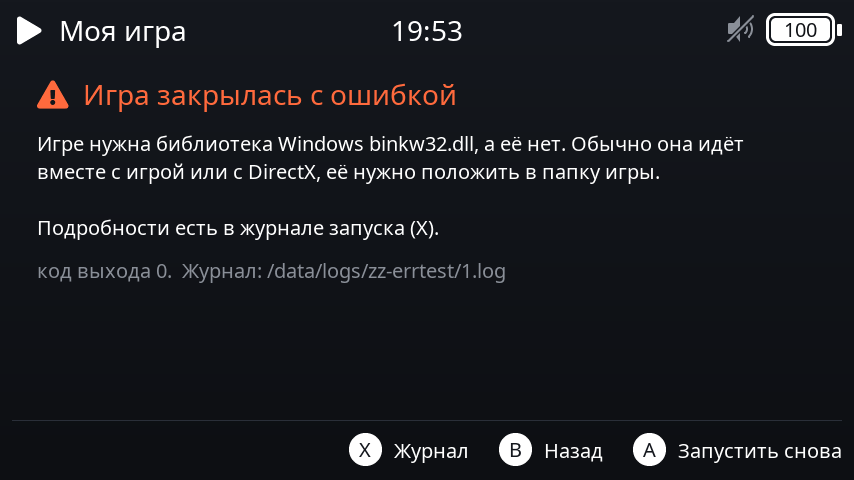
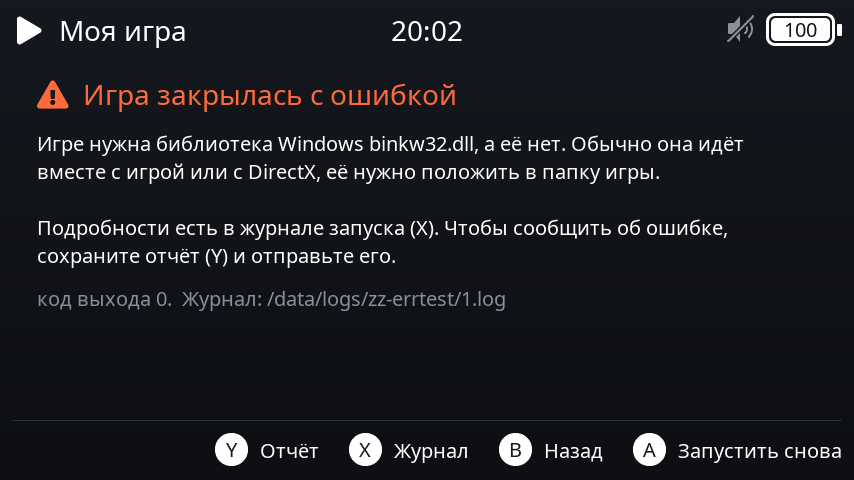
bare-report and /etc/sdk-release; bare_app 174b3e2: reports from the device
/usr/sbin/bare-report [GAME] writes one text file for a bug report: the
system's version, the kernel, memory, disks, battery, temperatures,
processes, USB, bare_app's settings and log, the kernel's messages and
the game's settings file, file list and three launch logs (without a
game: the one played last). It goes onto the games card
(/games/reports/<date>[-game].txt, writable for that only) or, without a
card, /data/reports; Wi-Fi passwords and keys stay out. bare_app runs it
from the error screen (Y) and Settings > System.

post-build.sh writes /etc/sdk-release: the firmware, the day it was
built, the SDK's and bare_app's commits (for reports now, updates
later).

User guide: "Отчёт об ошибке" (how to save one, where it goes, how to
take it to a computer, what it has in it); the wiki's tools page.

diff --git a/docs/user-guide/chapters/20-problems.md b/docs/user-guide/chapters/20-problems.md
@@ -21,6 +21,7 @@
 |---|---|
 | A | запускает игру снова |
 | X | показывает конец журнала запуска; крестовина листает его, X или B возвращают описание |
+| Y | сохраняет отчёт об ошибке (см. ниже «Отчёт об ошибке») |
 | B | возвращает на главный экран |
 
 Если вы сами закрыли игру (удержанием F6, через быстрое меню или через выход в меню
@@ -35,12 +36,46 @@
 | «Wine в этот момент обновлял свои настройки…» | первый запуск Windows-игры после обновления системы | запустить игру ещё раз |
 | «Wine не нашёл программу игры …» / «Нет файла, нужного игре» | на карте нет файла игры | скопировать игру на карту целиком |
 | «Wine не смог запустить программу игры» | exe-файл повреждён или это не Windows-программа | скопировать игру заново |
-| «Игра упала: ошибка внутри самой Windows-программы» | Windows-игра упала внутри Wine | запустить ещё раз; если повторяется, сохранить журнал |
+| «Игра упала: ошибка внутри самой Windows-программы» | Windows-игра упала внутри Wine | запустить ещё раз; если повторяется, сохранить отчёт |
 | «Игра упала: ошибка внутри движка игры» | упал движок (например, Half-Life) | то же |
 | «Память приставки заполнена…» | на `/data` нет места | удалить ненужное, например старые сохранения |
-| «Игра пыталась записать файл в свою папку на карте игр…» | ошибка настройки игры | сохранить журнал и отправить его |
+| «Игра пыталась записать файл в свою папку на карте игр…» | ошибка настройки игры | сохранить отчёт и отправить его |
 | «Box64… встретил команду процессора, которую пока не умеет выполнять» | эмулятор x86 не справился с кодом игры | игра на приставке пока не работает |
-| «Видеоядро сообщило об ошибке во время игры» | сбой графического процессора | запустить ещё раз; если повторяется, сохранить журнал |
+| «Видеоядро сообщило об ошибке во время игры» | сбой графического процессора | запустить ещё раз; если повторяется, сохранить отчёт |
+
+## Отчёт об ошибке
+
+Чтобы сообщить об ошибке, сохраните отчёт. Это один текстовый файл, в котором есть всё,
+что нужно для разбора: версия системы, состояние приставки (память, место на дисках,
+батарея, температура, запущенные программы), настройки, журналы bare_app и системы и,
+главное, журналы запуска игры и её файл настроек.
+
+Сохранить отчёт можно двумя способами:
+
+- **с экрана ошибки** кнопкой Y: в отчёт попадут журналы этой игры;
+- **в любой момент**: Настройки → Система → «Сохранить отчёт». В него попадут журналы
+  игры, которую запускали последней. Так удобно, если игра не упала, а повела себя
+  странно: сначала закройте её, потом сохраните отчёт.
+
+Через мгновение внизу экрана появится сообщение, куда сохранён файл. Отчёт ложится на
+карту игр в папку `reports`. Имя файла — дата, время и папка игры:
+
+```
+reports/2026-11-23_19-58-02-fallout.txt
+```
+
+Если карты игр сейчас нет (вынута или открыта компьютеру как USB-диск), отчёт
+сохраняется в память приставки, в `/data/reports`, и сообщение говорит об этом.
+
+**Как забрать отчёт на компьютер.** На главном экране выберите круглую кнопку
+«USB-диск» (первая под плитками) и подключите приставку кабелем к компьютеру: карта игр
+появится как обычный диск, отчёт лежит в папке `reports`. Можно и просто вынуть карту и
+вставить её в картридер. Приложите файл к сообщению об ошибке вместе с коротким
+описанием: что делали и что произошло.
+
+**Чего в отчёте нет.** Паролей Wi-Fi, ключей Bluetooth и SSH в отчёт не попадает. Есть
+модель и имя приставки, список подключённых USB-устройств, настройки bare_app и список
+файлов в папке игры.
 
 ## Журнал запуска
 

diff --git a/docs/wiki/07-Tools.md b/docs/wiki/07-Tools.md
@@ -100,13 +100,28 @@ tools/ppm2png.py /tmp/s.ppm /tmp/s.png
 `BARE_APP_NATIVE_DIRS`; для Doom — `BARE_APP_DOOM_WAD`; для Half-Life — движок с
 `--enable-bare-app` и `BARE_APP_HALFLIFE_*`.
 
+## Отчёт с приставки: `bare-report`
+
+`/usr/sbin/bare-report [ИГРА]` (`board/common/buildroot/rootfs-overlay/usr/sbin/`)
+собирает один текстовый файл для сообщения об ошибке: `/etc/sdk-release` (прошивка, день
+сборки, коммиты SDK и bare_app — его пишет `post-build.sh`), ядро, память, диски,
+батарея, температуры, процессы, USB, `/etc/bare_app.conf`, конец `bare_app.log` и
+`dmesg`, а для игры (имя каталога из `/data/logs`) — её `wine.ini`/`game.ini`, список
+файлов и три журнала запуска; без имени — журналы игры, запущенной последней. Файл
+ложится на карту, `/games/reports/<дата>[-игра].txt` (карта на время записи
+перемонтируется на запись), а без карты — в `/data/reports`; путь печатается. Пароли
+Wi-Fi и ключи в отчёт не попадают. bare_app зовёт его кнопкой Y на экране ошибки и
+пунктом «Сохранить отчёт» в Настройках → Система (`ACT_REPORT`, `ctl_report.c`,
+`platform.report`, `BARE_APP_REPORT` — другая команда).
+
 ## Что смотреть при проблемах
 
 | Признак | Где искать |
 |---|---|
 | игры нет в меню | ini не там, нет `exe`; журнал: `native: …: no exe` |
 | «Не найдено: путь» | `needs`/`missing()` |
-| стартует и закрывается | `/data/logs/<игра>/1.log` — stdout/stderr игры и Wine, код выхода, сообщения ядра |
+| стартует и закрывается | экран ошибки (правило из `errors.ini`); `/data/logs/<игра>/1.log` — stdout/stderr игры и Wine, код выхода, сообщения ядра |
+| что стоит на плате | `/etc/sdk-release`; всё сразу — `bare-report` |
 | чёрный экран, «Загрузка…» | другой видеодрайвер; `SDL_LOGGING = video=debug` |
 | рывки | монитор F5 (удерживать): график времени кадра, CPU по кластерам, диск; `BARE_APP_FRAME_STATS=1` в лог |
 | Wine | `WINEBARE_FPS=1` — fps и стопы; `WINEDEBUG` как обычно |

diff --git a/docs/user-guide/chapters/00-preface.md b/docs/user-guide/chapters/00-preface.md
@@ -10,7 +10,7 @@ Advance с прошивкой OdroidLinux. Собирать прошивку и 
 
 | Глава | О чём |
 |---|---|
-| [Если игра не работает](20-problems.md) | экран ошибки и какие ошибки приставка узнаёт; журнал запуска: где он лежит и что в нём искать |
+| [Если игра не работает](20-problems.md) | экран ошибки и какие ошибки приставка узнаёт; отчёт об ошибке: как сохранить и забрать на компьютер; журнал запуска: где он лежит и что в нём искать |
 
 ## Слова, которые встретятся
 
